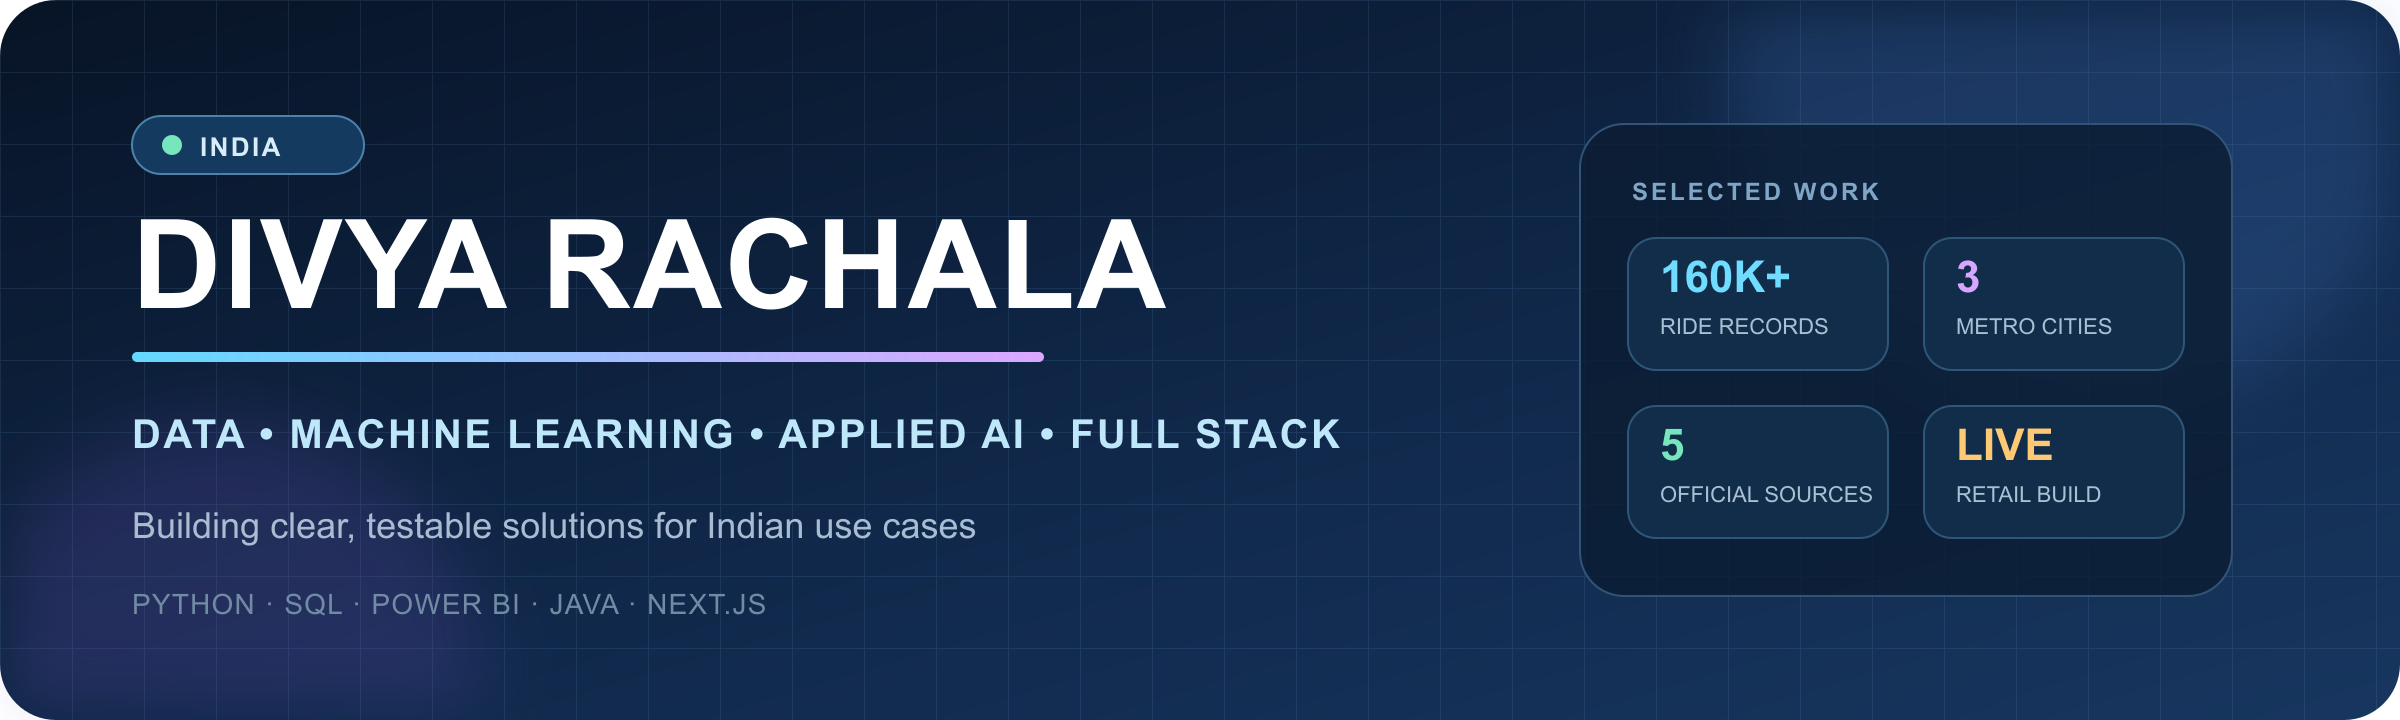
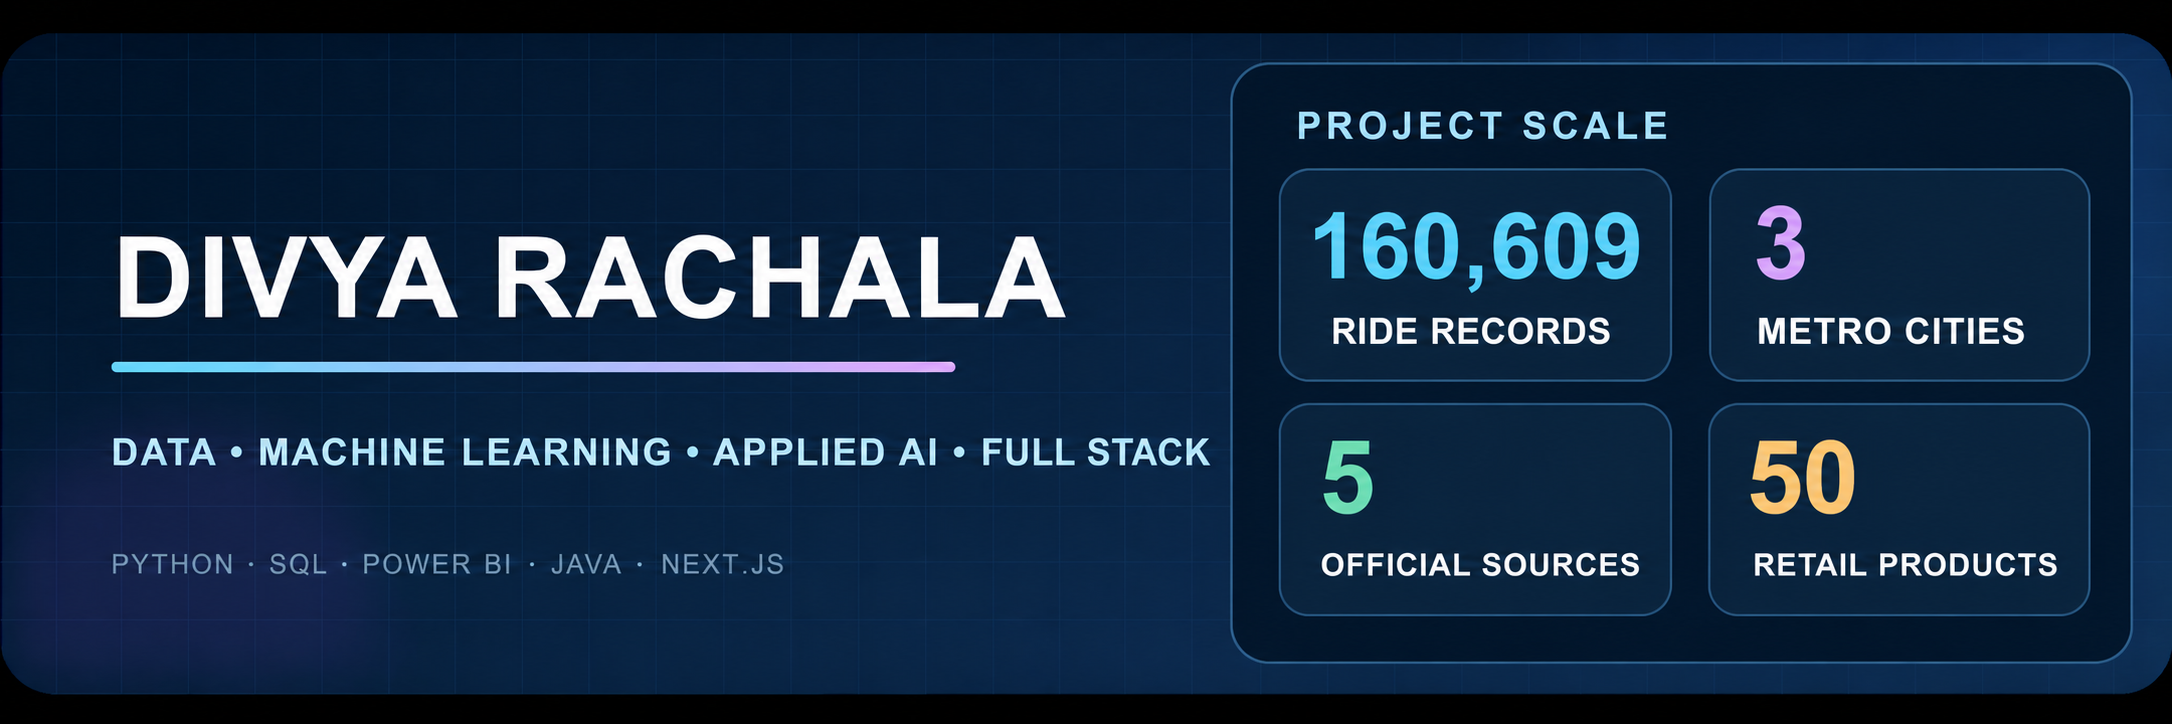
Refresh project metrics and report links

diff --git a/README.md b/README.md
@@ -36,7 +36,7 @@ I am Divya, a Computer Science graduate who enjoys taking a project from an uncl
       <p><strong>Problem</strong><br/>Repeated bookings and outcome dependent fields made operational KPIs disagree.</p>
       <p><strong>What I built</strong><br/>A reproducible Python, SQL and DuckDB pipeline with governed KPI definitions and a six page Power BI implementation package.</p>
       <p><strong>Result</strong><br/>160,609 raw rows became 148,767 unique bookings after 11,842 duplicates were removed. Twelve warehouse checks pass.</p>
-      <p align="center"><a href="https://github.com/divyarachala1812/ridepulse-operations-analytics"><strong>Open case study</strong></a> · <a href="https://github.com/divyarachala1812/ridepulse-operations-analytics/blob/main/reports/RidePulse_Operations_Analytics_Report.pdf">PDF report</a></p>
+      <p align="center"><a href="https://github.com/divyarachala1812/ridepulse-operations-analytics"><strong>Repository</strong></a> · <a href="https://github.com/divyarachala1812/ridepulse-operations-analytics/blob/main/reports/RidePulse_Report.pdf">PDF report</a></p>
     </td>
     <td width="50%" valign="top">
       <a href="https://github.com/divyarachala1812/airwise-metro-forecasting"><img src="assets/air-quality-forecast.png" width="100%" alt="AirWise observed and predicted PM2.5" /></a>
@@ -44,7 +44,7 @@ I am Divya, a Computer Science graduate who enjoys taking a project from an uncl
       <p><strong>Problem</strong><br/>Random validation can leak nearby dates and overstate a pollution forecast.</p>
       <p><strong>What I built</strong><br/>A next day PM2.5 model for Delhi, Hyderabad and Mumbai with chronological validation, a persistence baseline and interpretable evaluation.</p>
       <p><strong>Result</strong><br/>The 3,747 row city day panel was split into 2,070 training, 552 validation, and 1,095 unseen test rows. On 2025 data, Ridge achieved 8.50 µg/m³ MAE, 0.851 R² and 0.871 alert recall.</p>
-      <p align="center"><a href="https://github.com/divyarachala1812/airwise-metro-forecasting"><strong>Open case study</strong></a> · <a href="https://github.com/divyarachala1812/airwise-metro-forecasting/blob/main/reports/AirWise_Metro_Forecasting_Report.pdf">PDF report</a></p>
+      <p align="center"><a href="https://github.com/divyarachala1812/airwise-metro-forecasting"><strong>Repository</strong></a> · <a href="https://github.com/divyarachala1812/airwise-metro-forecasting/blob/main/reports/AirWise_Report.pdf">PDF report</a></p>
     </td>
   </tr>
   <tr>
@@ -54,15 +54,15 @@ I am Divya, a Computer Science graduate who enjoys taking a project from an uncl
       <p><strong>Problem</strong><br/>Useful scheme details are spread across official pages, PDFs, FAQs and circulars.</p>
       <p><strong>What I built</strong><br/>A citation first retrieval workflow over five declared official sources, with Hindi and Hinglish query support and visible evidence.</p>
       <p><strong>Result</strong><br/>The declared 18 question evaluation reached Hit@1 of 1.000, 0.972 term coverage and citations on every answer.</p>
-      <p align="center"><a href="https://github.com/divyarachala1812/krishiguide-scheme-assistant"><strong>Open case study</strong></a> · <a href="https://github.com/divyarachala1812/krishiguide-scheme-assistant/blob/main/reports/KrishiGuide_Scheme_Assistant_Report.pdf">PDF report</a></p>
+      <p align="center"><a href="https://github.com/divyarachala1812/krishiguide-scheme-assistant"><strong>Repository</strong></a> · <a href="https://github.com/divyarachala1812/krishiguide-scheme-assistant/blob/main/reports/KrishiGuide_Report.pdf">PDF report</a></p>
     </td>
     <td width="50%" valign="top">
       <a href="https://sunshine-agentic-retail.vercel.app"><img src="assets/sunshine-storefront-overview.jpg" width="100%" alt="Sunshine Indian retail storefront" /></a>
       <h3 align="center">Sunshine Retail Platform</h3>
       <p><strong>Problem</strong><br/>Small commerce demos often disconnect search, stock, payment, order history and customer support.</p>
-      <p><strong>What I built</strong><br/>An India first shopping journey with a Next.js interface, Spring Boot order service, FastAPI recommendations and conversational support.</p>
-      <p><strong>Result</strong><br/>The live build connects a 50 product catalogue to reservation commit and release, six bounded order agents, eight customer delivery stages, 12 synthetic analytics records, and 23 automated tests across TypeScript, Java, and Python.</p>
-      <p align="center"><a href="https://sunshine-agentic-retail.vercel.app"><strong>Open live project</strong></a> · <a href="https://github.com/divyarachala1812/sunshine-retail-platform">Source</a> · <a href="https://github.com/divyarachala1812/sunshine-retail-platform/blob/main/output/pdf/Sunshine_Retail_Platform_Report.pdf">PDF report</a></p>
+      <p><strong>What I built</strong><br/>An India first shopping journey with a Next.js interface, a Java 17 Spring Boot order API, FastAPI recommendations and conversational support. The backend validates requests, coordinates six bounded components, reserves or releases inventory and returns typed failure evidence with an eight stage delivery timeline.</p>
+      <p><strong>Result</strong><br/>The live build connects a 50 product catalogue to reservation commit, release and rejection, six bounded backend components, eight customer delivery stages, 12 synthetic analytics records, and 23 automated tests across TypeScript, JUnit and pytest.</p>
+      <p align="center"><a href="https://sunshine-agentic-retail.vercel.app"><strong>Open live project</strong></a> · <a href="https://github.com/divyarachala1812/sunshine-retail-platform">Source</a> · <a href="https://github.com/divyarachala1812/sunshine-retail-platform/blob/main/output/pdf/Sunshine_Report.pdf">PDF report</a></p>
     </td>
   </tr>
 </table>
